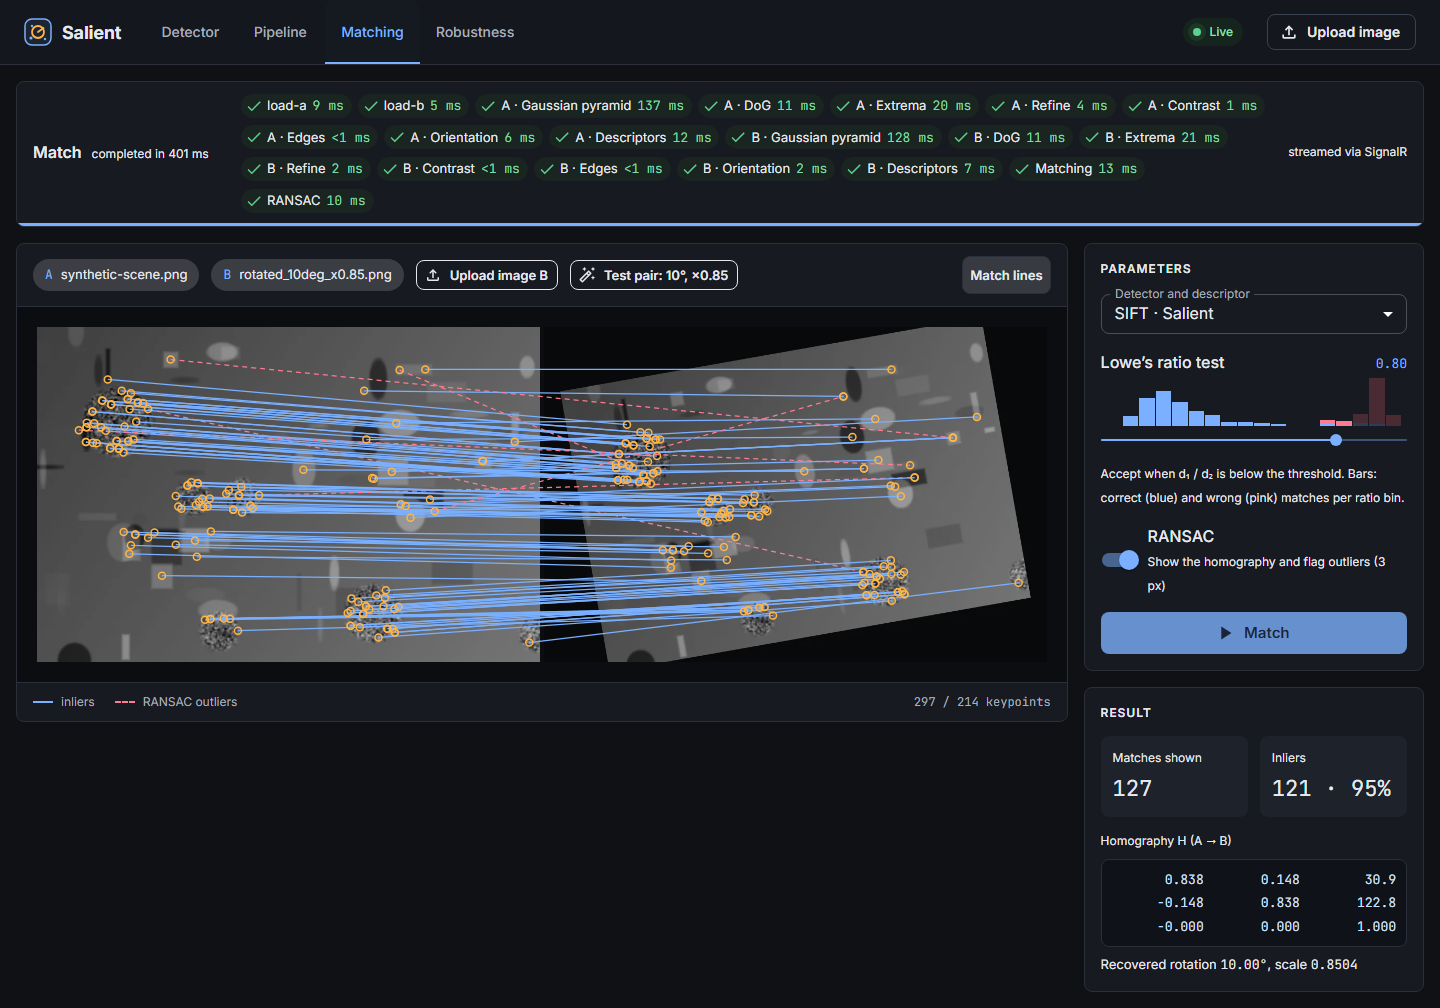
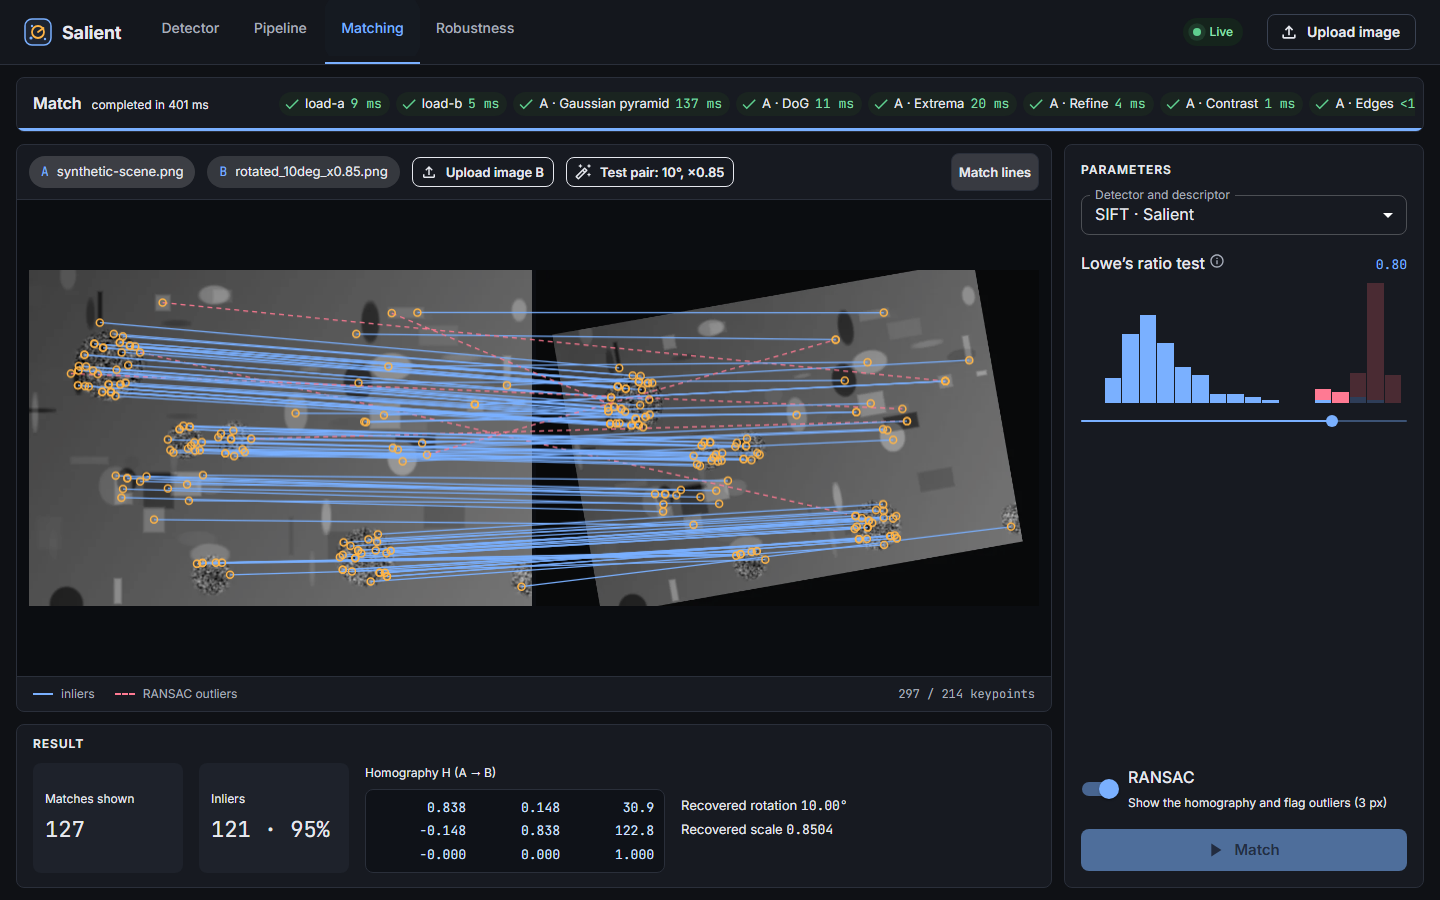
docs: refresh screenshots and record the single-viewport rule
The README screenshots are regenerated from the new layout, and CLAUDE.md lists
ADR-0015 and the fit-to-viewport invariant.

diff --git a/CLAUDE.md b/CLAUDE.md
@@ -3,7 +3,7 @@
 Salient is a feature-detection lab: a pure C# SIFT implementation (rewritten from the owner's 2019 C++ coursework in `C:\Projects\SIFTDetector`, with its bugs fixed) behind an ASP.NET Core API and a React + MUI UI. OpenCV (OpenCvSharp) is used **only as a reference**: a small "Compare with OpenCV" dialog and reference curves in the robustness bench.
 
 - UI spec: the design mockup "Salient UI" — https://claude.ai/artifact/ELEMEwhtL9FsoABJ34DeDz (Main, Pipeline, Matching, Robustness and Compare artboards).
-- Decisions: `docs/adr/0001–0014` (index in `docs/adr/README.md`). Read the relevant ADR before changing architecture; amend it (with a dated note) when you deviate.
+- Decisions: `docs/adr/0001–0015` (index in `docs/adr/README.md`). Read the relevant ADR before changing architecture; amend it (with a dated note) when you deviate.
 - Plan and status: `docs/implementation-plan.md`. All phases 0–9 (milestones M1–M4) are done. CI (`.github/workflows/ci.yml`) has **never run**, because the repo has no remote.
 
 ## Working rules
@@ -62,6 +62,7 @@ After changing API contracts: build the API (it rewrites `web/openapi/Salient.Ap
 - **Cache versioning:** results are cached by a sha256 key. Bump `SiftDetector.Version` when detector output changes, and `RunService.ComparisonVersion` when comparison logic changes.
 - **Stage ids** (`SiftStages`, mirrored in `web/src/shared/stages.ts`) are a contract between the backend artifacts and the Pipeline view.
 - **SIFT correctness details** (the coursework got these wrong): signed DoG (no abs); contrast test on the [0,1] scale as |D(x̂)|·s ≥ threshold; central differences halved; refinement re-centres on the shifted sample; reject when det ≤ 0; incremental σ blur with a proper kernel size.
+- **Every view fits one viewport** (ADR-0015): the shell is `100dvh` and clips its overflow, so a view must fill what is left and shrink its cards instead of growing. `expectFitsViewport` in `web/e2e/helpers.ts` asserts it for each view; mark anything that clips on purpose with `data-clips-by-design`.
 - **JSON** uses `JsonNumberHandling.Strict`; otherwise OpenAPI types numbers as `number | string`.
 
 ## Gotchas
